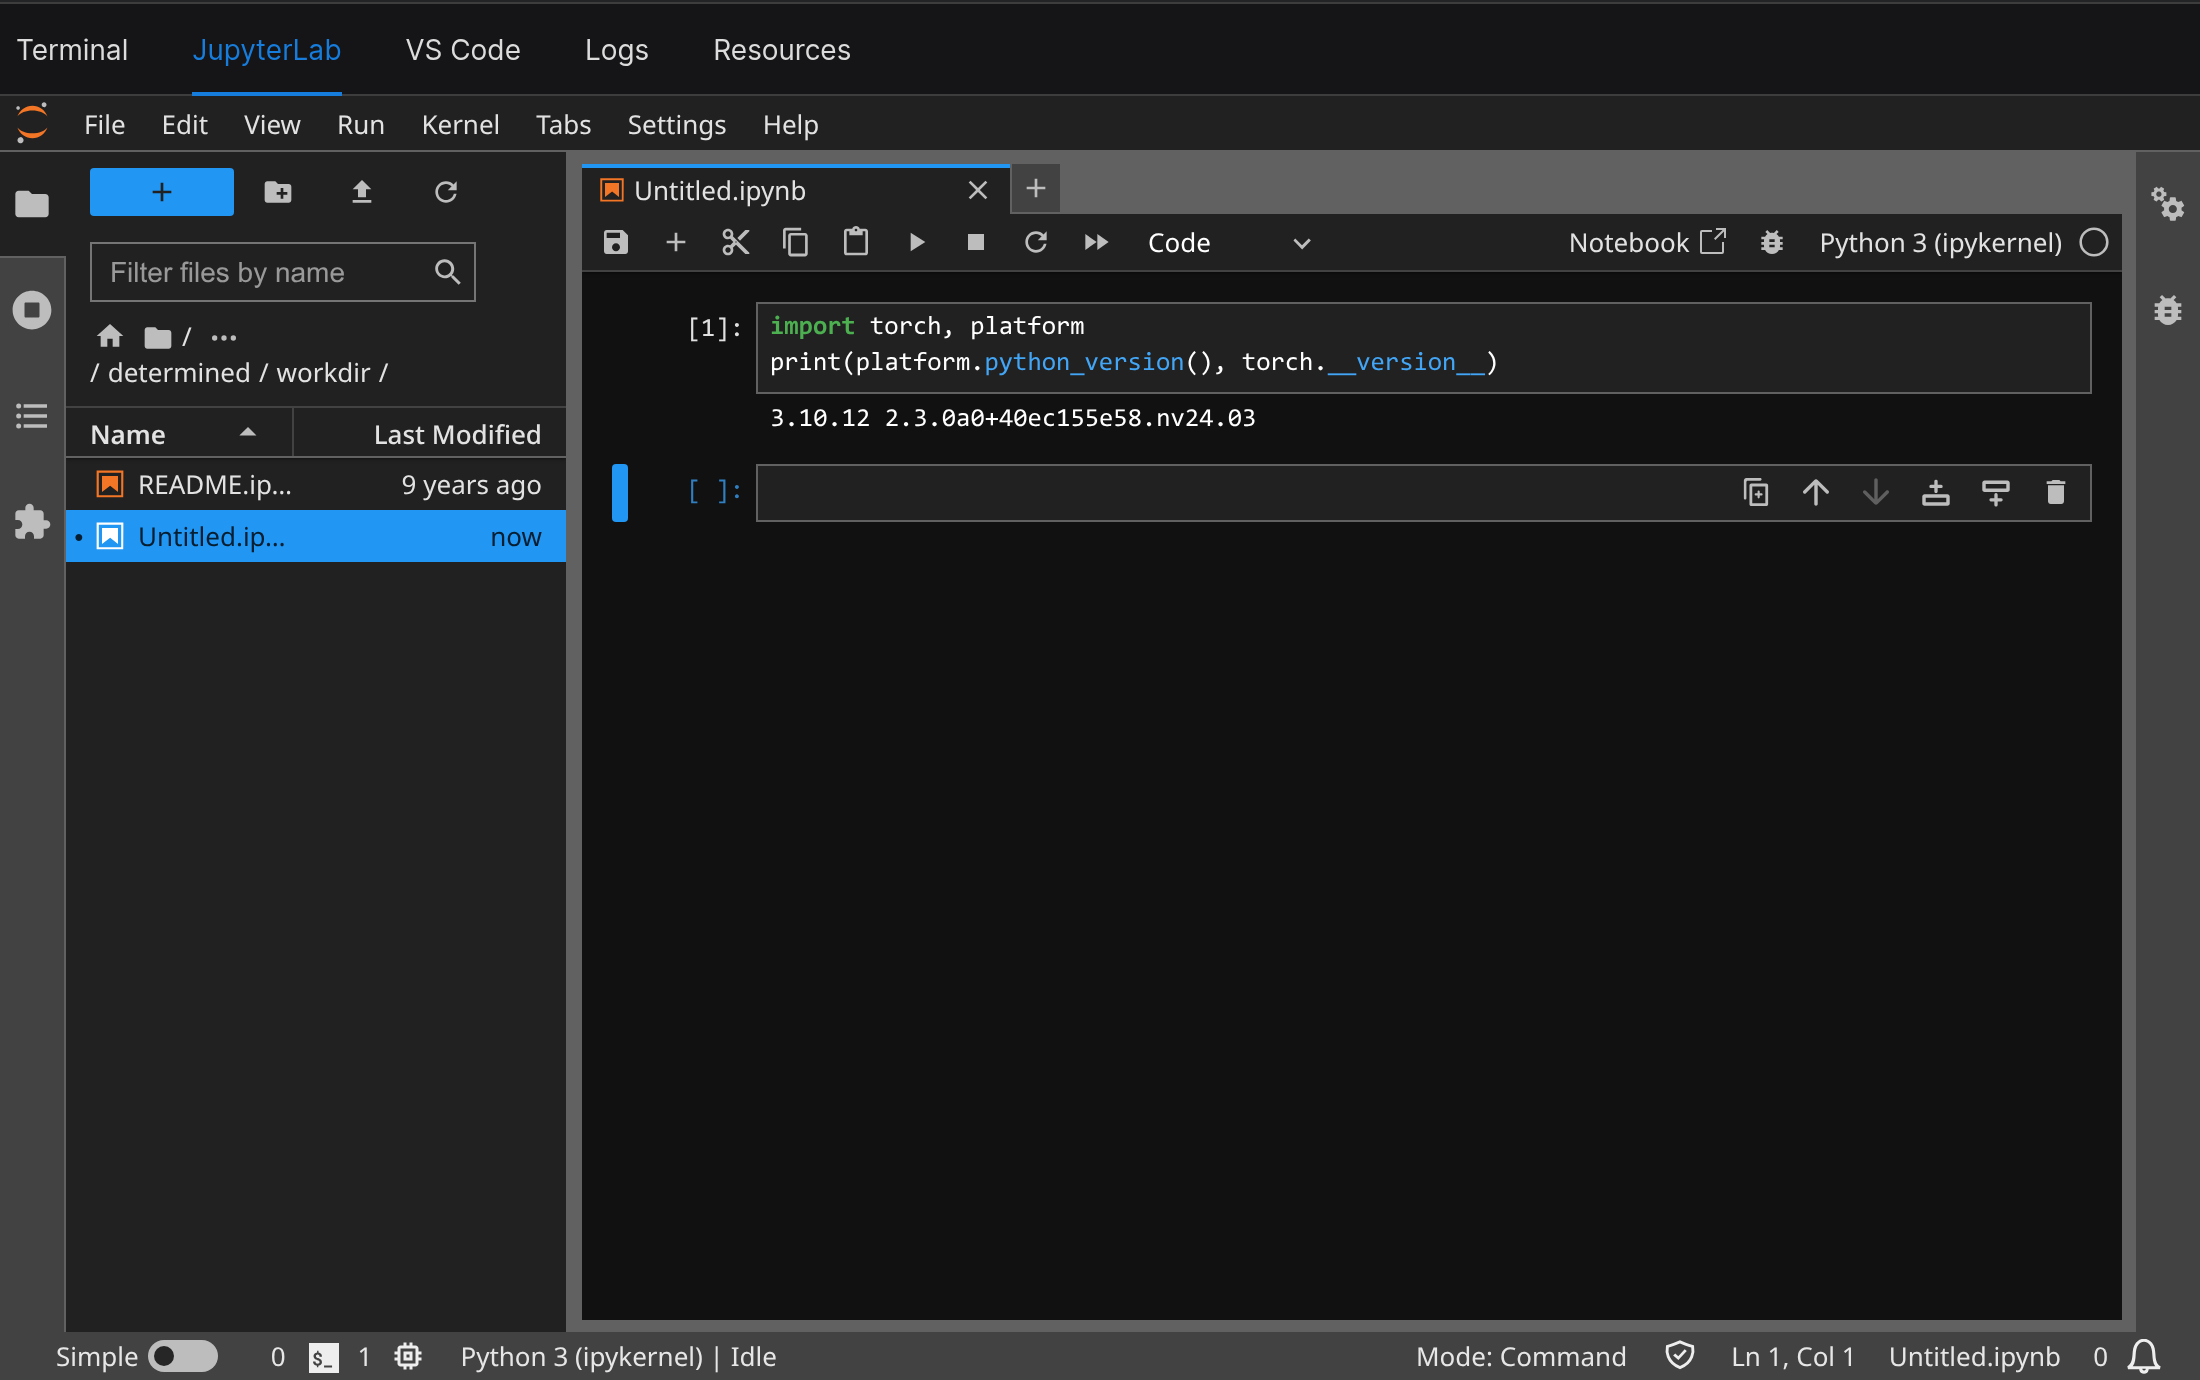
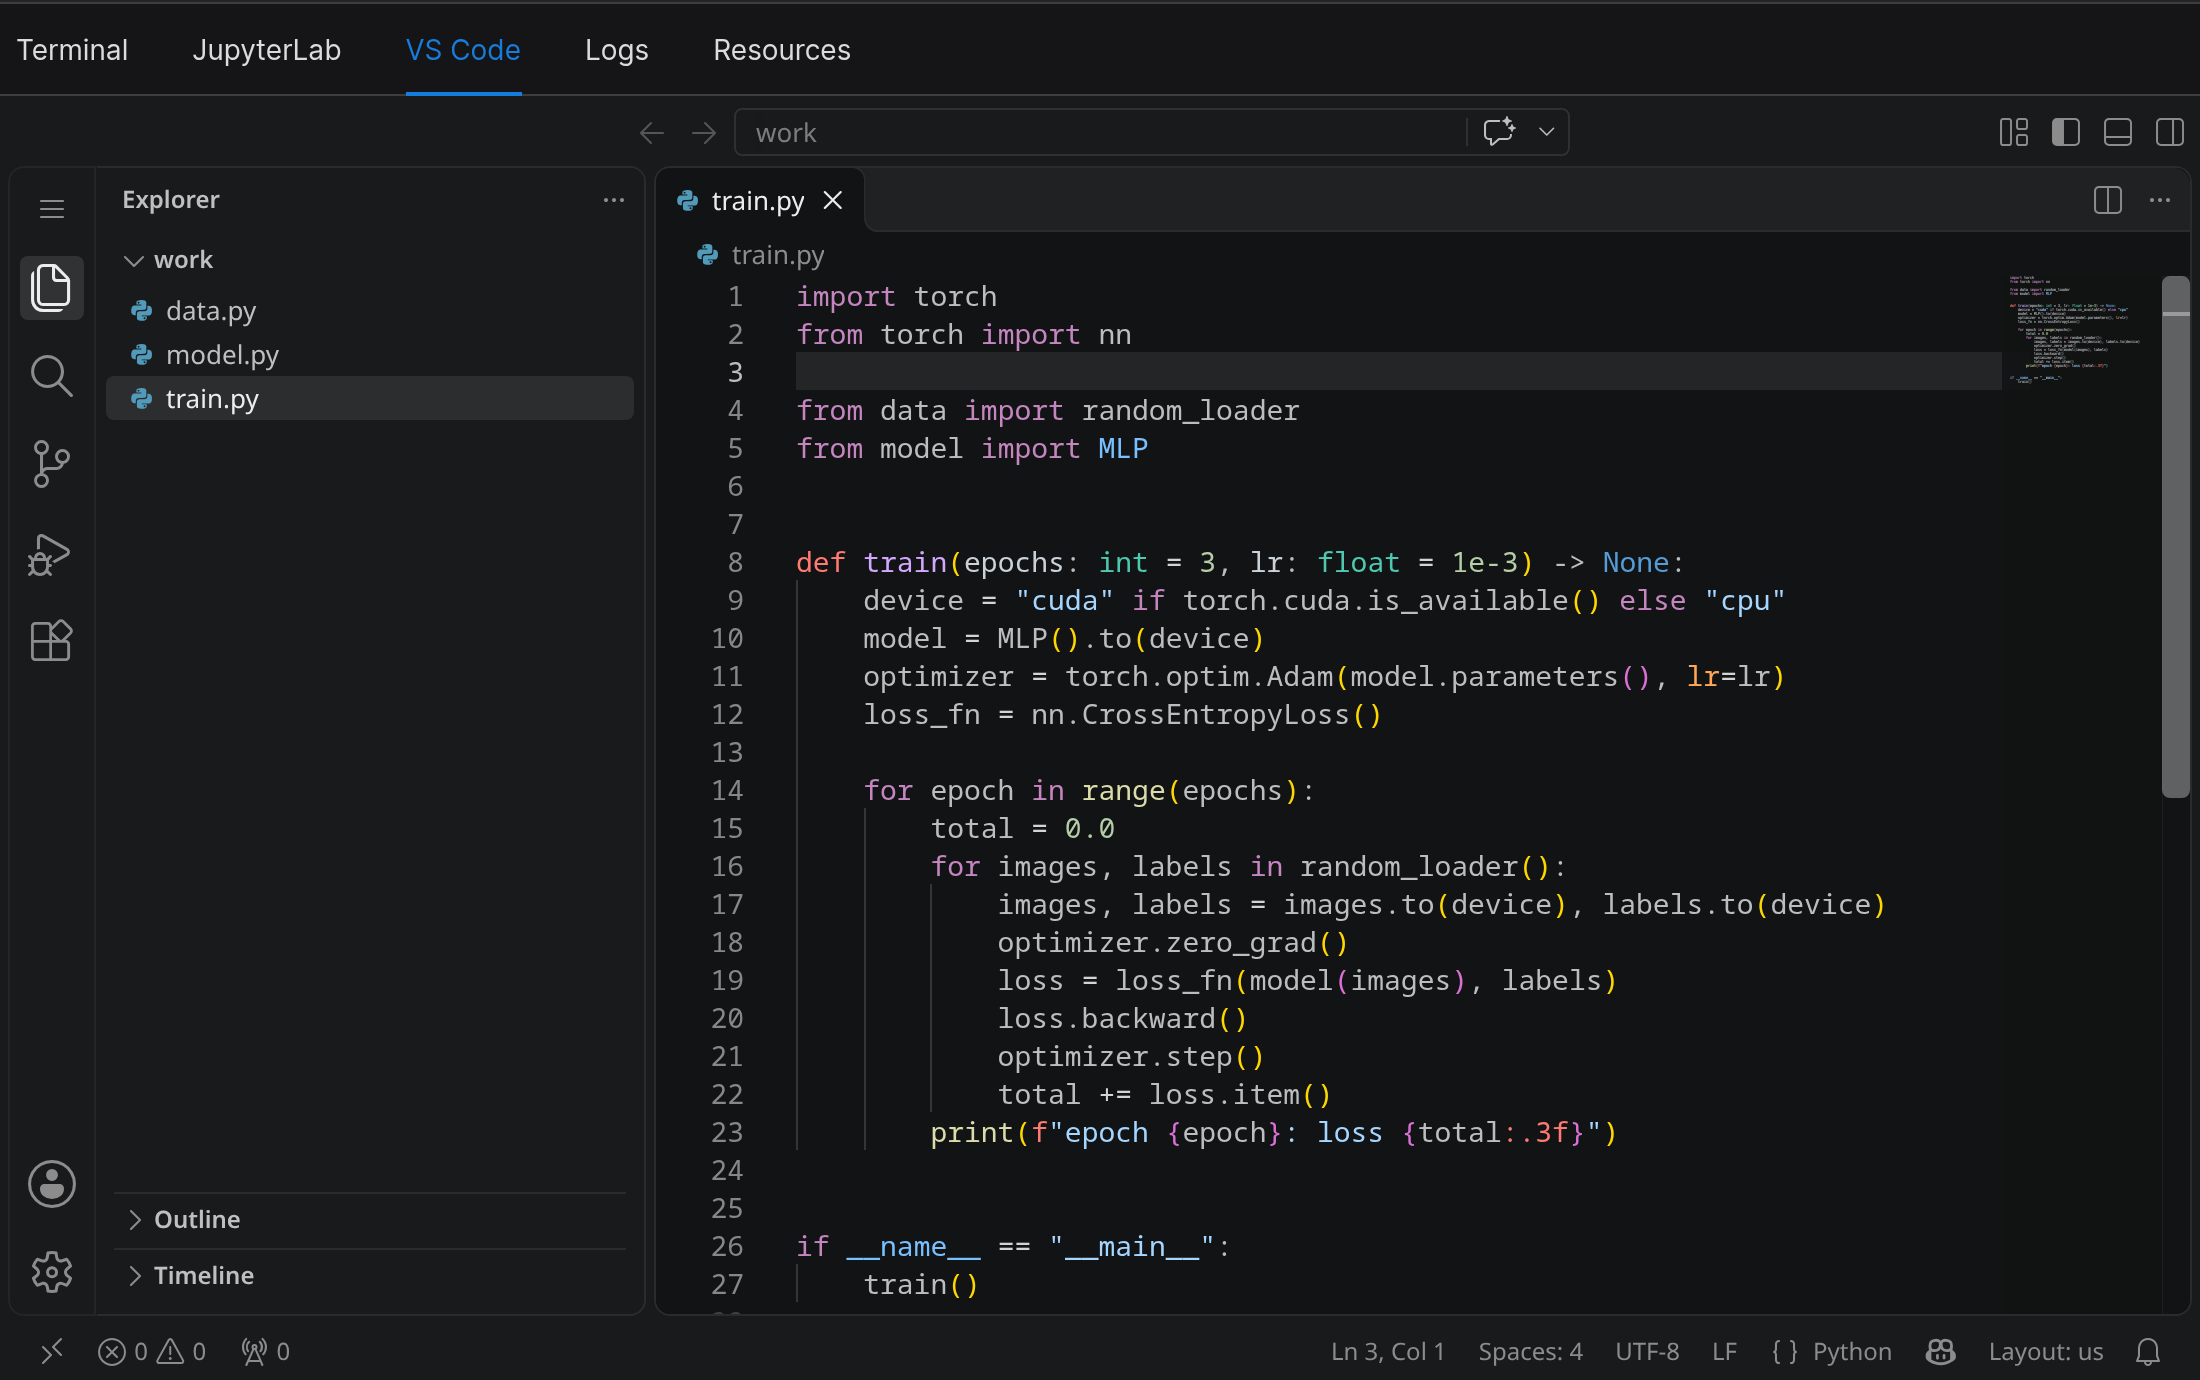
docs(readme): the features GIF, VS Code on the task page, no launch form image (#144)
The root README shows the features GIF again, and the task page screenshots show VS Code instead of JupyterLab in both the light and dark themes. The Batch bullet no longer names a TensorBoard task type, because TensorBoard is now a service of a shell. The launch form screenshot is no longer in the README; the WebUI guide still uses it.

diff --git a/README.md b/README.md
@@ -13,16 +13,15 @@ any program in a container.
 
 # Interactive
 
-A shell task runs an SSH server; a new shell also runs JupyterLab by default, and VS Code in the
-browser when the master serves code-server, in the same container with the same user, files and
-GPUs. JupyterLab comes from the task image; the default does not install it. Start a shell with
+A shell task runs an SSH server; a new shell also runs JupyterLab by default, VS Code in the
+browser when the master serves code-server, and TensorBoard when its configuration names a log
+directory or experiments, in the same container with the same user, files and GPUs. JupyterLab
+comes from the task image; the default does not install it. Start a shell with
 **Launch Interactive Task** on the **Jobs** page and work on its task page, in the **Terminal**,
 **JupyterLab**, **VS Code**, **Logs** and **Resources** tabs. A shell runs until it is killed,
 or until it has been idle for the `idle_timeout` its configuration sets.
 
-![The task page of a shell with its Terminal, JupyterLab, VS Code, Logs and Resources tabs, JupyterLab open](docs/assets/images/interactive-task-page.png)
-
-![The Launch Interactive Task form with a resource pool, slots, and the JupyterLab and VS Code services checked under Services](docs/assets/images/launch-interactive-task.png)
+![The task page of a shell with its Terminal, JupyterLab, VS Code, Logs and Resources tabs, VS Code open](docs/assets/images/interactive-task-page.png)
 
 ```bash
 det shell start                    # an SSH session and the default services
@@ -34,13 +33,16 @@ det task open <shell id> vscode    # VS Code in the browser
 
 - **Experiments** with hyperparameter search and distributed training, with metrics,
   checkpoints and a model registry.
-- **Commands and TensorBoards** for one-off programs and for viewing training metrics.
+- **Commands** for one-off programs, and **TensorBoard** for viewing training metrics, a service
+  of a shell started with `det tensorboard start <experiment id>` or from an experiment's page.
 - **GPU groups**: `resources.gpu_groups` places named groups of GPUs of exact models on one agent.
 - **Resource-pool access control**: pools are public until an administrator restricts them to
   the users granted access.
 - **GPU topology placement**: tasks get NUMA-packed or best-connected GPUs, and a pool's topology
   view outlines the GPUs each job holds.
 - **Task resource charts**: the CPU, memory and GPU use of each task, read from Prometheus.
+
+<p align="center"><img alt="The WebUI: experiment tracking with learning curves and hyperparameter plots, distributed training and hyperparameter tuning with trial metrics and the trials of a search, and resource management with the cluster's resource pools, the job queue and a job's queue settings" src="docs/assets/readme_images/features.gif"></p>
 
 ![A resource pool's topology view: two nodes, their NUMA groups, and each GPU's state and health](docs/assets/images/resource-pool-topology.png)
 

diff --git a/docs/tools/webui-if.rst b/docs/tools/webui-if.rst
@@ -338,11 +338,11 @@ from the CLI. A service that stops while the page is open shows its state in its
 
 .. image:: /assets/images/interactive-task-page-dark.png
    :class: only-dark
-   :alt: The page of a shell with its Terminal, JupyterLab, VS Code, Logs and Resources tabs, JupyterLab open, in dark mode
+   :alt: The page of a shell with its Terminal, JupyterLab, VS Code, Logs and Resources tabs, VS Code open, in dark mode
 
 .. image:: /assets/images/interactive-task-page.png
    :class: only-light
-   :alt: The page of a shell with its Terminal, JupyterLab, VS Code, Logs and Resources tabs, JupyterLab open, in light mode
+   :alt: The page of a shell with its Terminal, JupyterLab, VS Code, Logs and Resources tabs, VS Code open, in light mode
 
 |
 
